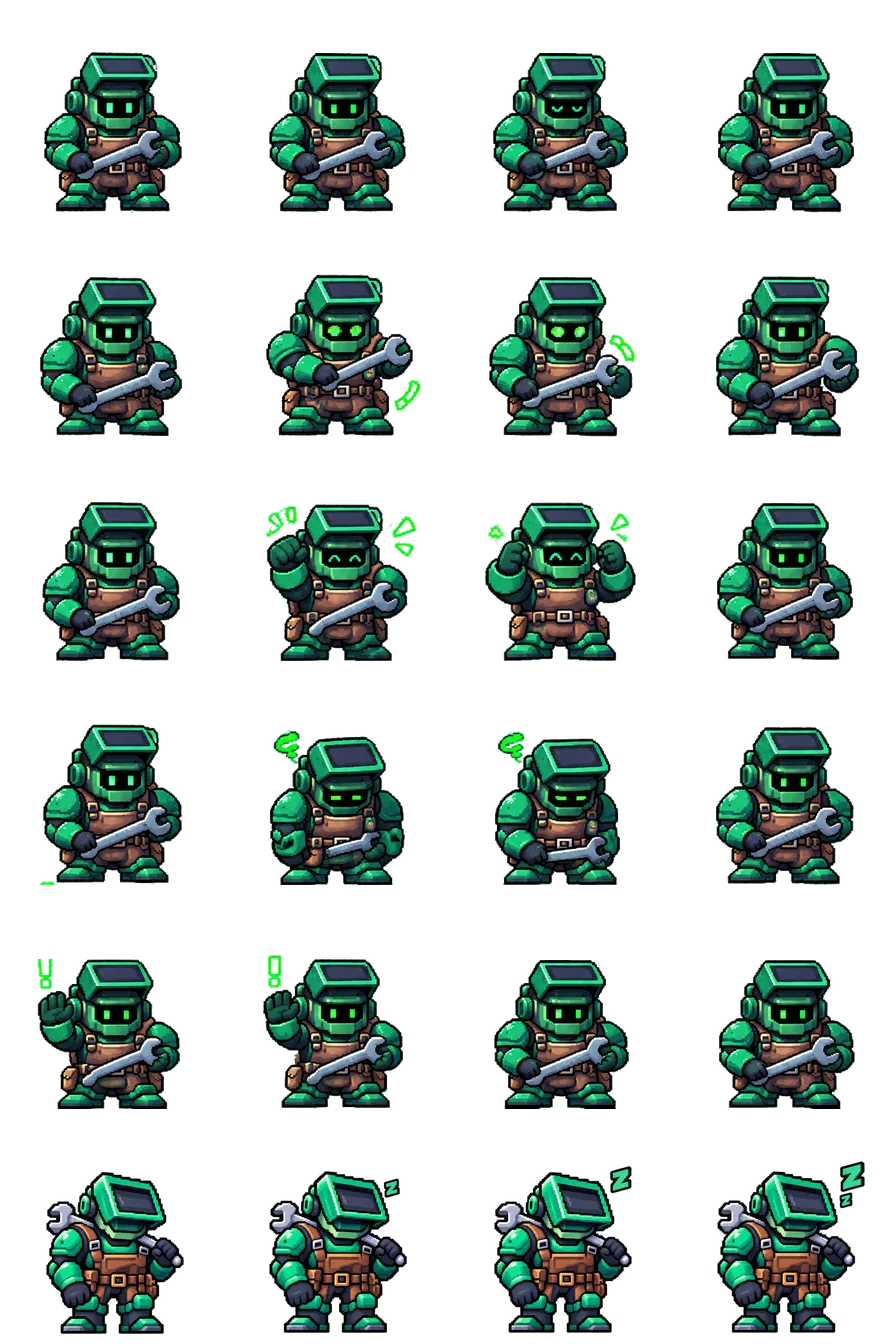
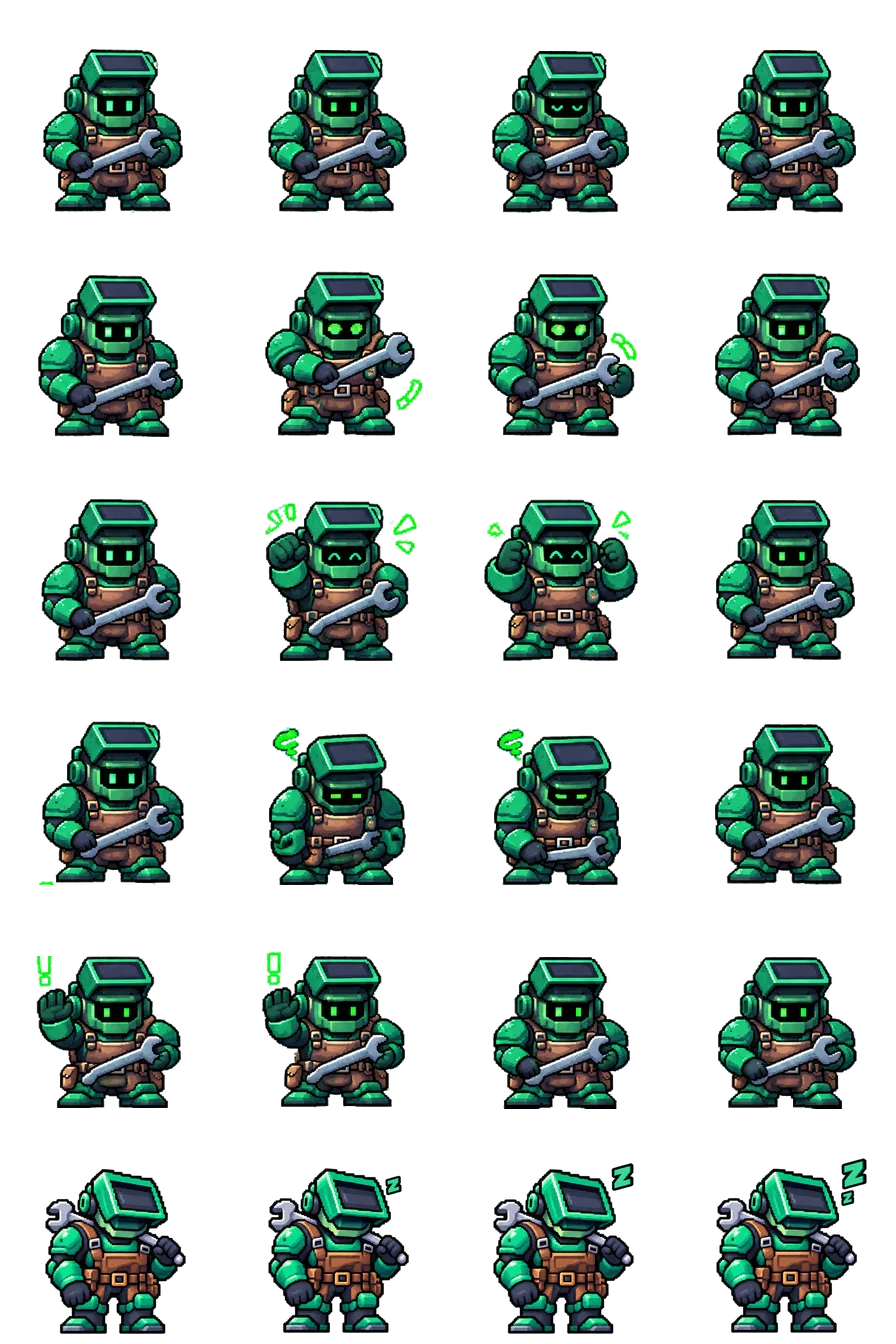
ATLAS: the real sprite sheet replaces the stand-in
ATLAS's regenerated sheet is a 1024x1536 portrait, which gives five rows
enough height that the waiting row's feet stay on the canvas (two square
attempts cut them off). All 20 frames cut cleanly, so ATLAS leaves the
STAND_IN list and its hand-made rows are deleted. The crew-wide scale now
includes ATLAS's idle frames, so every sheet was re-cut (~1-2% larger).

agent_art.py: a figure within 12px of the sheet's bottom and clearly
shorter than its idle self is refused — a cut edge fades out, so the
second attempt stopped 4px short of the edge and slipped past the old
2px check. ART_VERSION 3 so cached stand-in sheets refresh.

diff --git a/frontend/components/agents/personas.ts b/frontend/components/agents/personas.ts
@@ -101,9 +101,9 @@ export function artFor(a: Persona): { sheet: string; still: string } {
  * Bump whenever the sheet layout or the art changes. The CSS assumes the
  * layout (rows, order), so a cached sheet from before a change would be drawn
  * at the wrong offsets; a new query string makes every browser and CDN fetch
- * the new one. 2 = the 4x6 sheet with the sleep row.
+ * the new one. 2 = the 4x6 sheet with the sleep row; 3 = ATLAS's real sheet.
  */
-const ART_VERSION = 2;
+const ART_VERSION = 3;
 
 /** Build the render palette for one agent's desk prop. */
 export function deskPaletteFor(a: Persona): Record<string, string> {

diff --git a/frontend/scripts/agent_art.py b/frontend/scripts/agent_art.py
@@ -35,12 +35,10 @@ the WebPs in public/agents/ can always be rebuilt). To change a character,
 replace its still and sheet in `assets/` under the names in AGENTS and rerun
 for that agent.
 
-ATLAS: its first sheet runs off the canvas in the last row, which this script
-refuses, so rows 1-5 of `public/agents/atlas.webp` are a hand-made stand-in
-(its idle frames reused for the waiting row, with its own "!" on frames 1-2),
-kept losslessly in `assets/Atlas Stand-in Rows.png` (see STAND_IN). Until a
-regenerated sheet is in place, a run uses those rows and the published still
-and only rebuilds ATLAS's sleep row; delete both entries once it is.
+Sheets don't have to be square: five rows in a square left the image model too
+little height, and ATLAS's bottom row ran off the canvas twice; its sheet is a
+1024x1536 portrait. If a sheet can't be cut, an agent can be listed in
+STAND_IN with a lossless copy of hand-made rows 1-5 to use meanwhile.
 """
 
 from __future__ import annotations
@@ -253,7 +251,9 @@ def frames(sheet: Image.Image):
 
             if r == 0:
                 idle_h[c] = bbox[3] - bbox[1]
-            elif bbox[3] >= H - 2 and (bbox[3] - bbox[1]) < 0.8 * idle_h[c]:
+            elif bbox[3] >= H - 12 and (bbox[3] - bbox[1]) < 0.8 * idle_h[c]:
+                # Within a few pixels of the bottom counts: a cut edge fades out
+                # over its last pixels, so a cut figure can stop short of it.
                 # Touching the edge alone isn't enough — most sheets put the soles
                 # on the last pixel. A figure clearly shorter than its idle self
                 # has lost its feet, and that can't be repaired here. Reported
@@ -270,7 +270,7 @@ def frames(sheet: Image.Image):
 # Agents whose sprite sheet can't be cut yet, and the lossless copy of the
 # hand-made rows 1-5 that stand in for it. Only these may keep published rows;
 # any other agent with a broken sheet stops the run.
-STAND_IN = {"atlas": "Atlas Stand-in Rows.png"}
+STAND_IN: dict[str, str] = {}
 
 
 def sleep_file(name: str) -> str:
